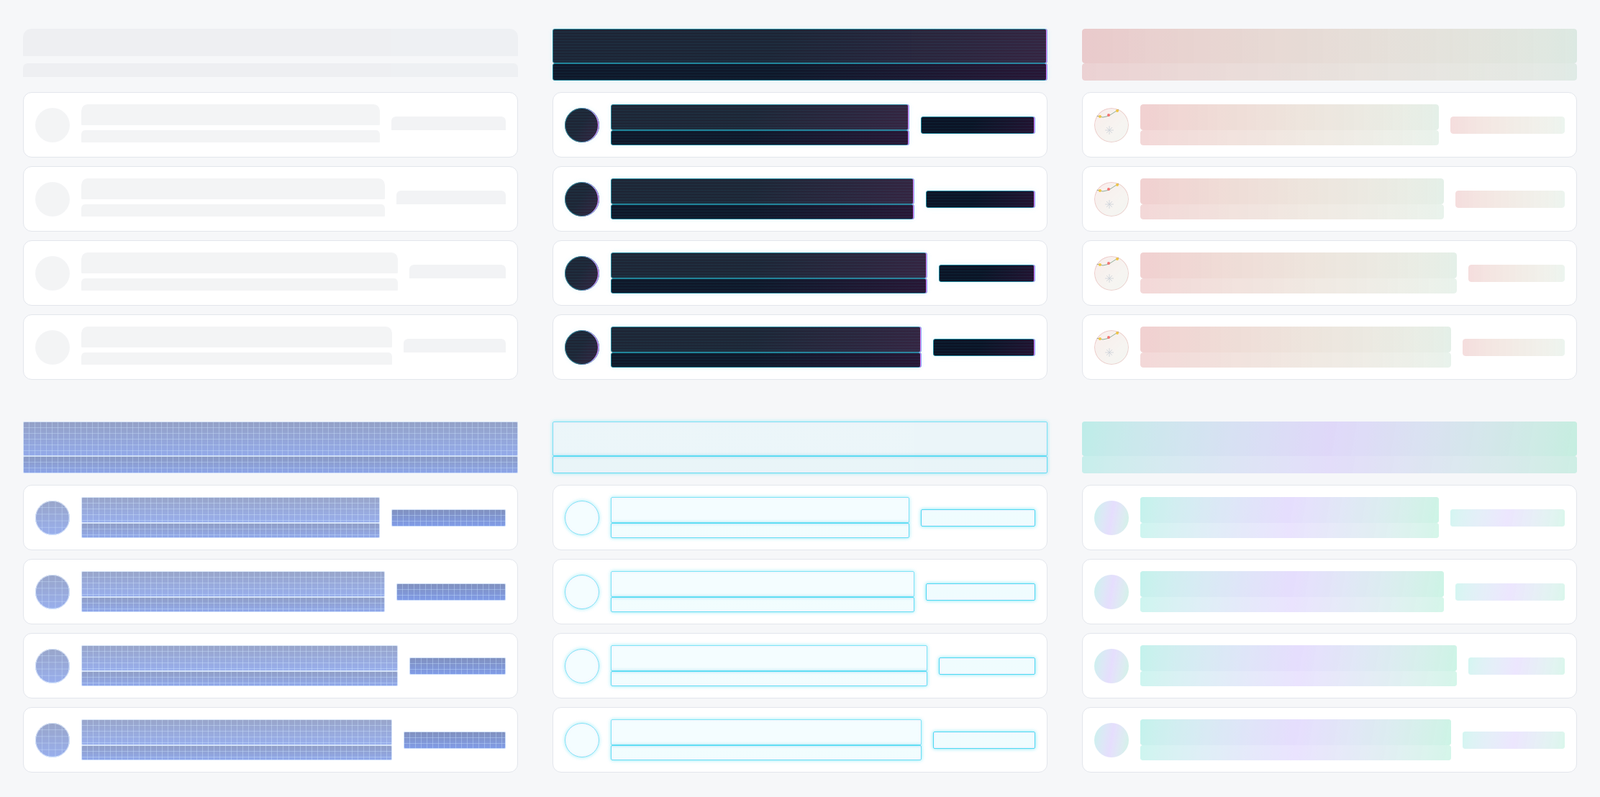
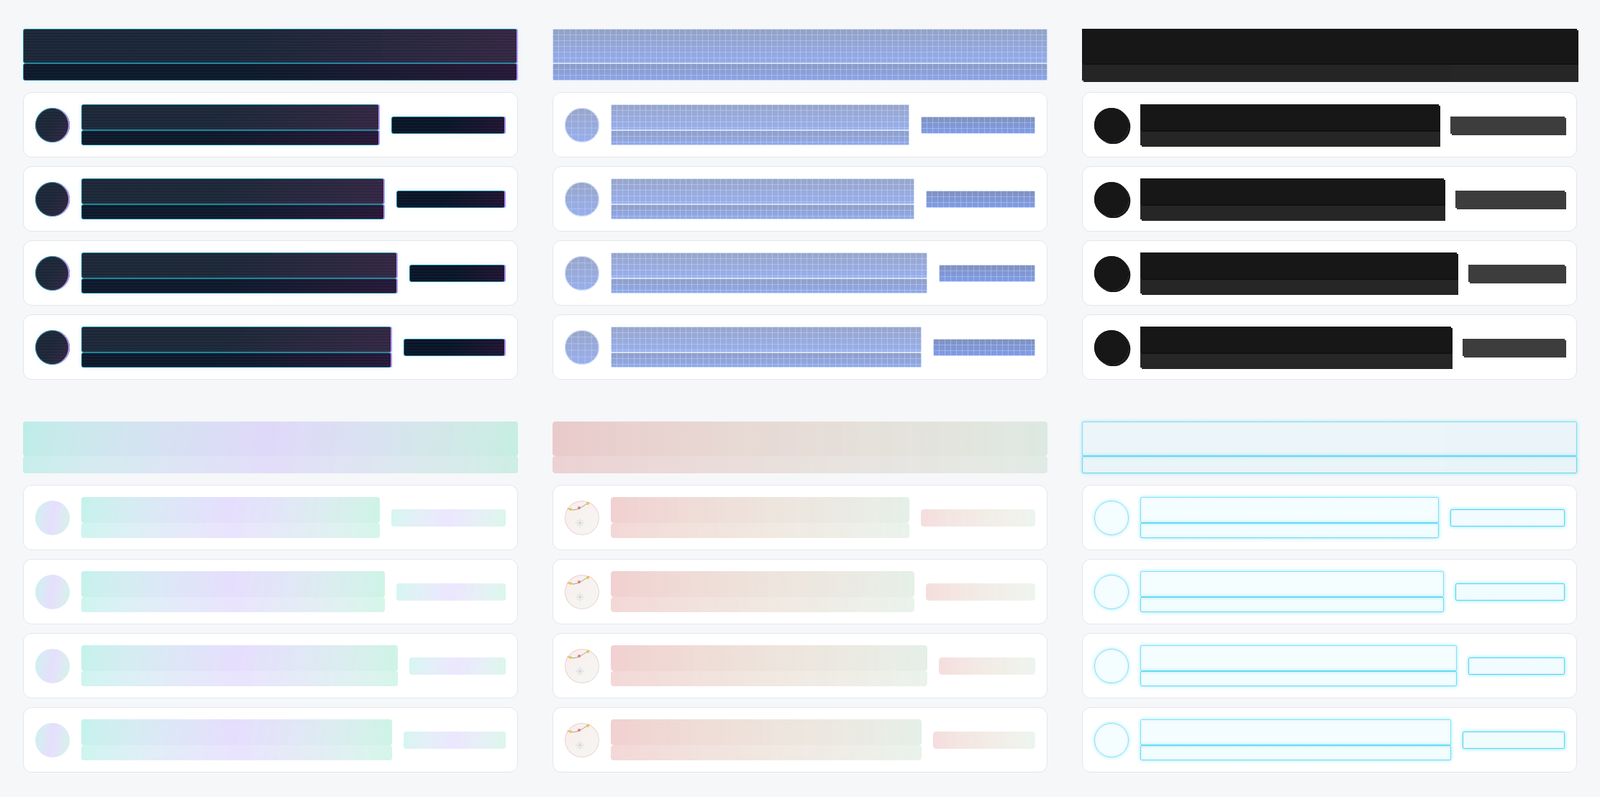
docs: reorder README around the demo and add contributing guide (#22)

diff --git a/README.md b/README.md
@@ -29,10 +29,10 @@
 </p>
 
 <p align="center">
-  <img src="site/public/readme/themes.png" alt="The same loading layout with six themes: solid, cyberpunk, christmas, blueprint, neon and aurora" width="800">
+  <img src="site/public/readme/themes.png" alt="The same loading layout with six very different themes: cyberpunk, blueprint, brutalist, aurora, christmas and neon" width="800">
 </p>
 
-<p align="center"><sub>One layout, six of the 38 themes: solid, cyberpunk, christmas, blueprint, neon, aurora.</sub></p>
+<p align="center"><sub>One layout, six of the 38 themes: cyberpunk, blueprint, brutalist, aurora, christmas, neon.</sub></p>
 
 ---
 
@@ -42,6 +42,32 @@
 - **Pure CSS**: generated at build time, no runtime JavaScript to paint or animate.
 - **One config file**: themes, motion and timing, with dark mode and seasonal theming.
 - **Accessible by default**: wrappers handle `aria-busy` and `inert` for you.
+
+## What makes it different
+
+Many skeleton libraries ask you to draw placeholder shapes yourself and ship JavaScript to render them. Charpente detects the shapes from your page.
+
+| | Hand-built skeletons | Charpente |
+| --- | --- | --- |
+| Placeholder shapes | Described or duplicated by hand | Detected automatically from your real layout |
+| Runtime cost | JavaScript components | CSS generated at build time |
+| Look and feel | Configured per component | One config file, 38 themes |
+| Frameworks | Often a single one | Vue, React, Svelte, Solid, Angular, Astro, Blade and vanilla |
+
+## Works with your stack
+
+| Framework | Package |
+| --- | --- |
+| Vue, Nuxt | `charpente-vue` |
+| React, Next | `charpente-react` |
+| Svelte | `charpente-svelte` |
+| Solid | `charpente-solid` |
+| Angular | `charpente-angular` |
+| Astro | `charpente-astro` |
+| Laravel, Livewire | `charpente-blade` |
+| Vanilla | `charpente/dom` |
+
+The [`examples`](examples) folder has a working setup for each framework, and for Tailwind, Bootstrap, MUI, shadcn and Vuetify. Install works with npm, pnpm and bun.
 
 ## Quick start
 
@@ -71,19 +97,6 @@ import virtual:charpente.css
 
 Remove the attributes when your content is ready.
 
-## Your framework
-
-| Framework | Package |
-| --- | --- |
-| Vue, Nuxt | `charpente-vue` |
-| React, Next | `charpente-react` |
-| Svelte | `charpente-svelte` |
-| Solid | `charpente-solid` |
-| Angular | `charpente-angular` |
-| Astro | `charpente-astro` |
-| Laravel, Livewire | `charpente-blade` |
-| Vanilla | `charpente/dom` |
-
 ## Go further
 
 [Installation guide](https://techmefr.github.io/charpente/getting-started/) ·
@@ -92,6 +105,12 @@ Remove the attributes when your content is ready.
 [Accessibility](https://techmefr.github.io/charpente/accessibility/)
 
 ## Contributing
+
+Charpente is young, and feedback is the most useful contribution.
+
+- **Test it and report back**: try it with your framework, UI library or package manager, and [open an issue](https://github.com/techmefr/charpente/issues) with what worked and what did not.
+- **Add a theme**: themes live in [`packages/charpente/src`](packages/charpente/src). Try yours in the playground, then open a pull request.
+- **Improve it**: fixes, new motions, wrappers for other frameworks and documentation are all welcome.
 
 This repository is a pnpm workspace.
 
